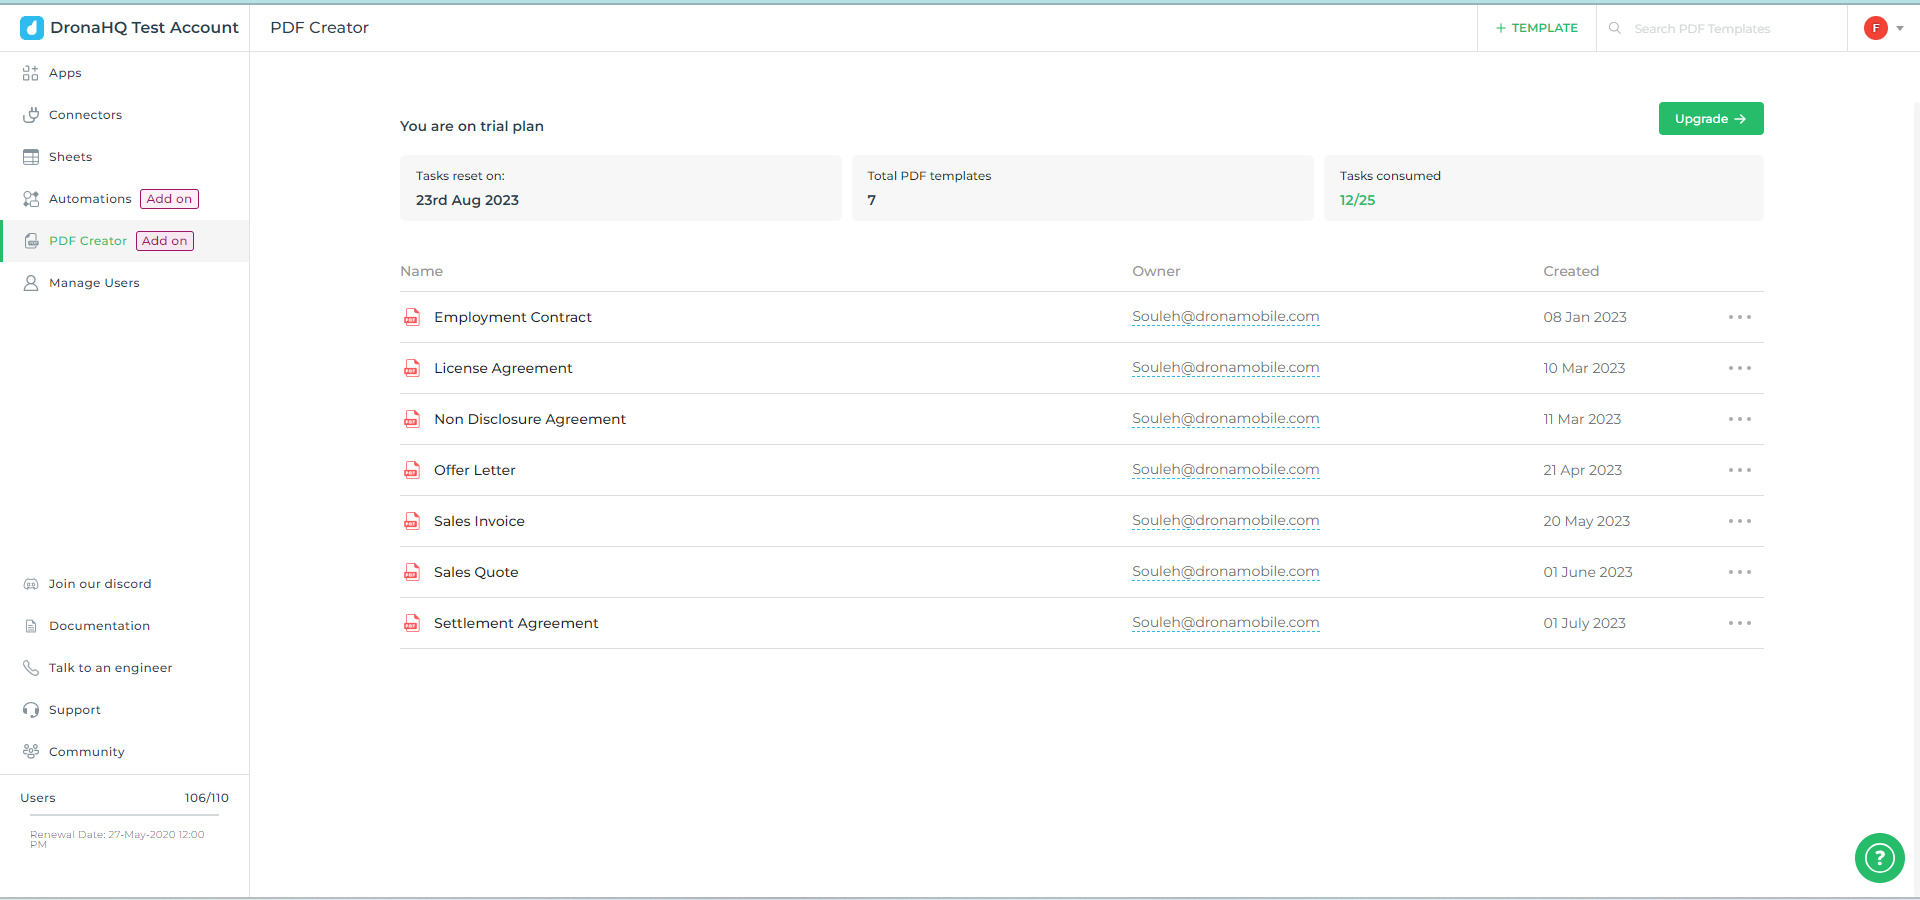
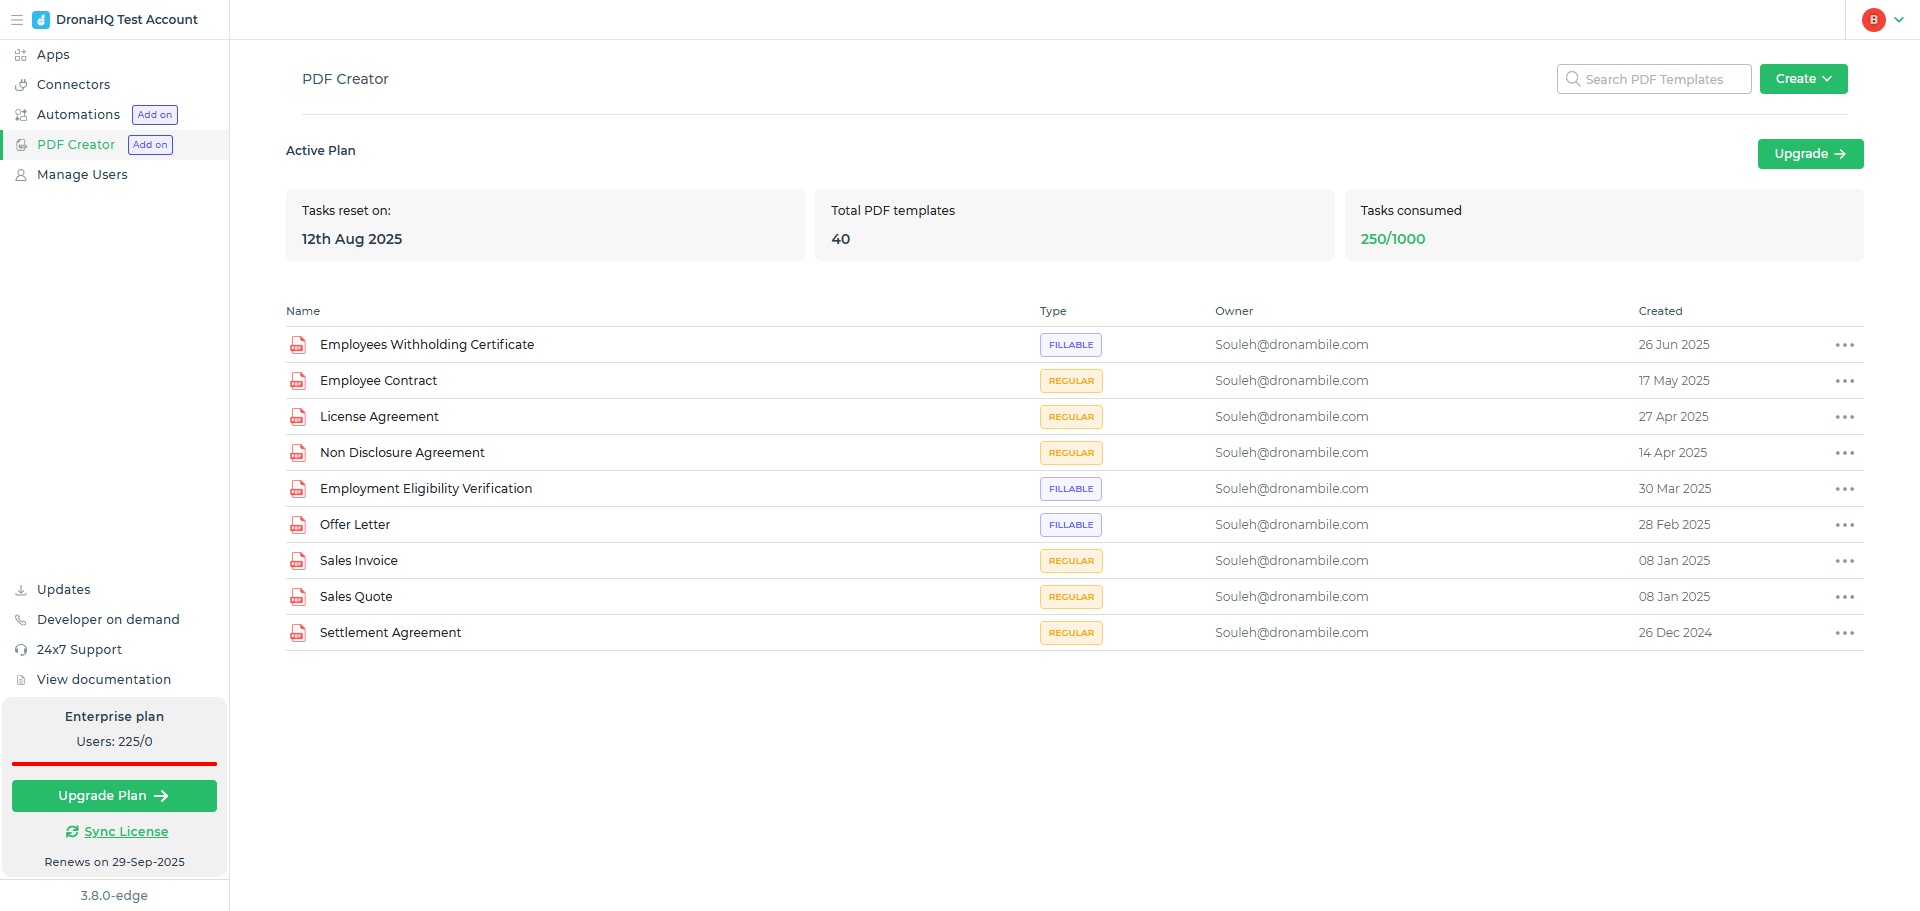
Added Fillable Documentation in PDF Creator

diff --git a/docs/pdf-creator-editor.md b/docs/pdf-creator-editor.md
@@ -1,5 +1,7 @@
 ---
 sidebar_position: 122
+toc_min_heading_level: 2
+toc_max_heading_level: 4
 ---
 
 import Thumbnail from '@site/src/components/Thumbnail';
@@ -8,17 +10,22 @@ import TabItem from '@theme/TabItem';
 
 # PDF Editor
 
-DronaHQ provides a very powerful and feature-rich `WYSIWYG PDF Editor` where you can create/design a PDF template from either scratch or use a ready template and modify it according to your needs. 
+DronaHQ provides a powerful and feature-rich PDF generation system with support for two types of templates:
 
+- **Regular Templates** are built using a `WYSIWYG editor`, making them ideal for designing custom PDFs from scratch or by modifying existing templates. They offer full control over the layout, support dynamic data binding, and allow you to add components such as text, tables, images, and summaries—enabling highly customizable and visually rich PDF outputs.
+
+- **Fillable Templates** are based on existing, pre-designed fillable PDFs (such as government forms or standardized documents). These templates do not support layout modifications but allow you to populate the form fields using JSON data. This makes them ideal for automating the generation of standardized forms where structure must remain unchanged, but values need to be filled dynamically.
+
+## Regular Templates
 PDF Editor supports several components to add content like text, images, or table data to the page and also to organize the layout of those content. You can work with dynamic data inside the template by creating variables and binding them to the components. 
 
 The look and feel of specific pages can be changed by adding headers, footers, background colors, or images to it. Additionally, you can modify the page size, orientation, and margins to meet your design expectations. Miscellaneous settings like Zoom In, Zoom Out, and Page Reset make the design experience a breeze.
 
 It is possible to create multiple versions of the same template. A new version of the template is created every time you publish and you can switch to any version using the rollback feature.
 
-## PDF Editor Elements
+### PDF Editor Elements
 
-### Configuration
+#### Configuration
 
 <Tabs groupId="configuration">
 <TabItem value="global-settings" label="Global Settings">
@@ -60,7 +67,7 @@ Page settings are only visible if a page is focused and has the following fields
 |  Footer | Add a custom footer to a specific page and design it independently. This feature allows you to create unique footers for each page. |
 |Allow Content Overflow |Enable this feature to allow dynamic content to seamlessly continue onto subsequent pages in the PDF. When toggled on, content that exceeds the first page's capacity, such as dynamic tables with numerous rows, will automatically spill over onto the next page(s) until all content is rendered. Conversely, disabling this feature will truncate the content to fit within the first page only.|
 | Background Color   | This field takes up all the values that is supported by a [css color property](https://developer.mozilla.org/en-US/docs/Web/CSS/color#syntax) like `white`, `#fff`, `rgb(255, 255, 255)`, `rgba(255, 255, 255, 0.5)`, and so on. By default, the background color is set to `white`.                           |   |
-| Background Picture | Any jpeg or png image can be used. Image options includes horizontal and vertical alignment, repeat and fill types.                                                                                                                                                                                            |   |
+| Background Picture | Any jpeg or png image can be used. Image options include horizontal and vertical alignment, repeat and fill types.                                                                                                                                                                                            |   |
 
 <figure>
     <Thumbnail src="/img/pdf_creator/pdf-editor/pdf-creator-page-configuration.png" alt="Page configuration" />
@@ -87,18 +94,18 @@ Page settings are only visible if a page is focused and has the following fields
   </TabItem>
 </Tabs>
 
-### Converting Between Header/Footer Types in PDF Templates
+#### Converting Between Header/Footer Types in PDF Templates
 
 When working with PDF templates, you may need to switch between in-page and common headers/footers. 
 
-#### Converting In-Page Header/Footer to Common Header/Footer  
+##### Converting In-Page Header/Footer to Common Header/Footer  
 To convert an in-page header or footer to a common header or footer, specify the page number of the header/footer you want to apply as common. If you prefer to discard all in-page headers and footers, leave the field blank to create a new common header or footer.
 
-#### Converting Common Header/Footer to In-Page Header/Footer  
+##### Converting Common Header/Footer to In-Page Header/Footer  
 If your PDF template currently uses a common header or footer, you can convert them to in-page headers or footers by selecting the option to disable common headers/footers while preserving the existing content. Alternatively, you can remove all headers and footers entirely for a cleaner layout.
 
 
-### Components
+#### Components
 
 <Tabs  groupId="components">
   <TabItem value="content" label="Content">
@@ -125,7 +132,7 @@ If your PDF template currently uses a common header or footer, you can convert t
 
   </TabItem>
   <TabItem value="layout" label="Layout">
-  This components are used to structure the content.
+  These components are used to structure the content.
 <br/>
 <br/>
 
@@ -143,7 +150,7 @@ If your PDF template currently uses a common header or footer, you can convert t
   </TabItem>
 </Tabs>
 
-### Rich text editor
+#### Rich text editor
 
 DronaHQ offers a large number of formatting options for textual content like changing fonts, its size, weight, style, color, line height and so on.
 You can add hyperlink which can be static as well as dynamic url(fetch from variable source). You can also set justification for text and list the items as bullet points.
@@ -156,5 +163,52 @@ You can add hyperlink which can be static as well as dynamic url(fetch from vari
 :::info Rich text editor
 
 The rich text editor is activated when you click or focus on any text component within the template.
+
+:::
+
+
+## Fillable Templates
+
+Fillable Templates let you upload existing PDFs with fillable form fields (such as those created in Adobe Acrobat) and populate them programmatically using DronaHQ. This is ideal when you want to work with standard government forms, contracts, or any pre-designed document. Miscellaneous settings like Zoom In, Zoom Out enhances the pdf viewing experience.
+
+### Fillable PDF Working
+
+#### Add a Fillable PDF
+- Add New Fillable PDF by navigating `PDF Creator Menu` -> `Create` -> `Fillable PDF`.
+- Enter a unique name for your template.
+- If the PDF is password-protected, input the password.
+- Upload or select a valid fillable PDF.
+- Click on `Add PDF`.
+- A new tab opens with a UI preview of your uploaded fillable PDF.
+
+:::info
+Make sure you upload a valid fillable PDF - the system only accepts PDFs with interactive form fields and does not support regular (non-fillable) documents.
+:::
+
+#### Preview & JSON Mapping
+When a fillable PDF template is clicked from the PDF template listing, it opens in a new tab with the following UI elements:
+- **Live Preview:** View the actual fillable PDF.
+- **Sidebar:** Displays two JSON objects:
+  - **Form JSON:** Defines the structure of the PDF's form fields. Each field typically includes  
+    - `name`: Field identifier
+    - `type`: Field type (e.g., text, checkbox, dropdown)
+    - `options`: (For dropdowns/option lists) Lists all possible field values
+
+  - **Generate PDF JSON:** Used to generate the PDF output by injecting data. Each field typically includes
+    - `name`: Matches the field name from the form
+    - `type`: Same as the form field type
+    - `value`: The actual data to populate
+    - `options`: Not required and usually omitted
+    
+- **Generate PDF Button:** Located at the top, this allows you to test the PDF output using the data from the `Generate PDF JSON`.
+
+<figure>
+    <Thumbnail src="/img/pdf_creator/pdf-editor/fillable-pdf-view.png" alt="Fillable Form PDF View" />
+    <figcaption align='center'><i>Fillable Form PDF View</i></figcaption>
+</figure>
+
+:::info
+
+Whenever you generate a PDF using the **Generate PDF** button from the Fillable PDF Preview, it will **consume tasks**. Make sure to test accordingly and monitor your task usage.
 
 :::

diff --git a/docs/pdf-creator-generate-pdf.md b/docs/pdf-creator-generate-pdf.md
@@ -3,17 +3,24 @@ sidebar_position: 123
 ---
 
 import Thumbnail from '@site/src/components/Thumbnail';
+import Tabs from '@theme/Tabs';
+import TabItem from '@theme/TabItem';
 
 # Generate PDF
 
-You can generate the pdf template from the Action flow and Workflow by using the `Generate PDF` action. Before generating the pdf, make sure you create and publish that template.
+You can generate both Regular and Fillable PDF templates from the App’s Data Query, Action Flow, and Automation. While configuring, you can choose the desired format for the PDF file response — either as a Base64 string or a public URL to the generated file.
 
 <figure>
-  <Thumbnail src="/img/pdf_creator/generate-pdf/generate-pdf-action-block.png" alt="Generate PDF Action"/>
-  <figcaption align = "center"><i>Generate PDF action</i></figcaption>
+  <Thumbnail src="/img/pdf_creator/generate-pdf/generate-pdf-action-from-actionflow.png" alt="Generate PDF block in App's Action Flow"/>
+  <figcaption align = "center"><i>Generate PDF block in App's Action Flow</i></figcaption>
 </figure>
 
 To generate a pdf from the template you need to configure the fields as follows:
+
+<Tabs groupId="configuration">
+
+  <TabItem value="regular-template-configuration" label="Regular Template">
+<br/>
 
 | Field                        | Description                                                                                                                               |
 |------------------------------|-------------------------------------------------------------------------------------------------------------------------------------------|
@@ -23,13 +30,33 @@ To generate a pdf from the template you need to configure the fields as follows:
 | Dynamically generated fields | This section is only visible if variables are created within the pdf template. You can bind the variable value to any control or keyword. |
 
 <figure>
-  <Thumbnail src="/img/pdf_creator/generate-pdf/generate-pdf-action-config.png" alt="Generate PDF configuration"/>
-  <figcaption align = "center"><i>Generate PDF configuration</i></figcaption>
+  <Thumbnail src="/img/pdf_creator/generate-pdf/generate-pdf-data-query-regular.png" alt="Generate PDF from Data Query - Regular Template"/>
+  <figcaption align = "center"><i>Generate PDF from Data Query - Regular Template</i></figcaption>
 </figure>
 
-A publicly accessible link for the generated pdf is returned from this action.
+  </TabItem>
+
+  <TabItem value="fillable-template-configuration" label="Fillable Template">
+<br/>
+
+| Field                        | Description                                                                                                                               |
+|------------------------------|-------------------------------------------------------------------------------------------------------------------------------------------|
+| PDF Name                     | Name for the generated PDF file.                                                                                                          |
+| Password                     | Is the password to encrypt your PDF. It is an optional field.                                                                             |
+| Template ID                  | The pdf template you want to generate. Click on the down arrow to the extreme right and all the published templates will be listed        |
+| Form JSON Data | Provide the Generate PDF JSON to populate the fillable fields. |
+| Flatten Form | Set to "yes" to make the final PDF non-editable after generation. Set to "no" or leave blank to keep the PDF editable. |
 
 <figure>
-  <Thumbnail src="/img/pdf_creator/generate-pdf/generated-pdf-link-output.png" alt="Storing Generated PDF Link"/>
-  <figcaption align = "center"><i>Storing generated pdf link</i></figcaption>
+  <Thumbnail src="/img/pdf_creator/generate-pdf/generate-pdf-data-query-fillable.png" alt="Generate PDF from Data Query - Fillable Template"/>
+  <figcaption align = "center"><i>Generate PDF from Data Query - Fillable Template</i></figcaption>
 </figure>
+
+  </TabItem>
+</Tabs>
+
+:::note
+
+Regular PDF templates must be published before they can be used for generation. Fillable templates, however, do not require publishing and can be used immediately after upload.
+
+:::

diff --git a/docs/pdf-creator-concepts/fillable-json.md b/docs/pdf-creator-concepts/fillable-json.md
@@ -1,0 +1,115 @@
+---
+sidebar_position: 3
+---
+
+import Thumbnail from '@site/src/components/Thumbnail';
+
+# Fillable JSON Structure
+
+When working with Fillable PDF Templates in DronaHQ, Fillable JSON refers to two key JSON structures that define and populate data into PDF form fields:
+
+**Form JSON** - Describes the structure and types of fields present in the uploaded fillable PDF.
+
+**Generate PDF JSON** - Provides actual values for those fields to generate the final PDF.
+
+Together, they allow you to view available fields and programmatically inject values into the PDF.
+
+## Form JSON
+
+Auto-generated from your uploaded fillable PDF. It tells you:
+
+- What fields are available.
+- What type each field is (e.g., text, radio, dropdown).
+- If a field has selectable options.
+
+```json
+[
+    {
+        "name": "FullName",
+        "type": "text"
+    },
+    {
+        "name": "Married",
+        "type": "checkbox"
+    },
+    {
+        "name": "Gender",
+        "type": "radio",
+        "options": ["Male", "Female"]
+    },
+    {
+        "name": "City",
+        "type": "dropdown",
+        "options": ["New York", "London", "Berlin"]
+    },
+    {
+        "name": "Language",
+        "type": "optionlist",
+        "options": [
+            "English",
+            "German",
+            "French",
+            "Italian"
+        ]
+    }
+]
+```
+
+## Generate PDF JSON
+You use this to populate the form with data. It mirrors the Form JSON structure and adds a value key. The options key is not required here. Just provide the name, type, and value.
+
+```json
+[
+    {
+        "name": "FullName",
+        "type": "text",
+        "value": "John Doe"
+    },
+    {
+        "name": "Married",
+        "type": "checkbox",
+        "value": true
+    },
+    {
+        "name": "Gender",
+        "type": "radio",
+        "value": "Male"
+    },
+    {
+        "name": "City",
+        "type": "dropdown",
+        "value": "New York"
+    },
+    {
+        "name": "Language",
+        "type": "optionlist",
+        "value": ["English", "French"]
+    }
+]
+```
+
+### Embedding Images in Fillable Fields
+If a field is of type `text`, you can also use it to draw an image (e.g., for signatures or ID photos). Just set the type in Generate PDF JSON to either of type `image/jpeg` or `image/png`.
+
+The value should be either a Base64-encoded image string, or a publicly accessible image URL.
+
+```json
+[
+    {
+        "name": "Signature",
+        "type": "image/png",
+        "value": "https://example.com/signature.png"
+    }
+]
+```
+
+
+```json
+[
+    {
+        "name": "Signature",
+        "type": "image/jpeg",
[1 lines of base64/hex data omitted]
+    }
+]
+```

diff --git a/docs/pdf-creator-overview.md b/docs/pdf-creator-overview.md
@@ -6,16 +6,21 @@ import Thumbnail from '@site/src/components/Thumbnail';
 
 # Overview
 
-PDF Creator allows you to create custom document templates suited for your business needs like sales invoices, offer letters, summary reports, and so on. You get the option to design your templates from scratch or make use of ready templates.
+PDF Creator allows you to create custom document templates suited for your business needs - such as sales invoices, offer letters, summary reports, and more. You can either design templates from scratch, use ready-to-edit templates with the built-in editor, or upload existing fillable PDFs.
 
-DronaHQ offers a very powerful in-browser `WYSIWYG editor` which can be used to  design/edit the templates using ready components like containers, columns, heading types to name a few. You can add multiple pages, change their `orientation` from portrait to landscape and vice versa, set custom `page margins`, and also choose from over 18 unique `page sizes` to work on. You can make pdf content dynamic by supplying values from APIs, Databases or DronaHQ controls using `text and image variables`. 
+For `Regular Templates`, DronaHQ provides a powerful in-browser `WYSIWYG editor` that enables you to design documents visually using ready-to-use components like containers, columns, headings, tables, and more. You can add multiple pages, switch orientations (`portrait`/`landscape`), set custom margins, and choose from over 18 unique page sizes. PDF content can also be made `dynamic` by binding variables to APIs, databases, or DronaHQ controls - supporting both text and image fields.
 
-If the pdf holds some sensitive business information or confidential data, it can be password-protected and distributed securely.
+For `Fillable Templates`, you can upload a predesigned fillable PDF with form fields. These are non-editable in the UI but allow you to preview and generate completed documents by filling field values via a simple JSON structure.
 
+If the PDF contains sensitive or confidential data, it can be `password-protected` and securely distributed.
 
 :::info
 
-This feature is available as an [addon](https://www.dronahq.com/features/pdf-creator), which needs to be activated before usage.
+- **Fillable PDF templates** are currently supported **only on self-hosted deployments**. This feature is **not available on cloud-hosted environments** (managed by DronaHQ) at the time of writing.
+
+- On **self-hosted deployments**, only the `A4` page size and `portrait` orientation are supported. Features like **variable page size and orientation** are available **only on cloud-hosted deployments**.
+
+- This feature is available as an [add-on](https://www.dronahq.com/features/pdf-creator) and must be **activated before use**.
 
 :::
 
